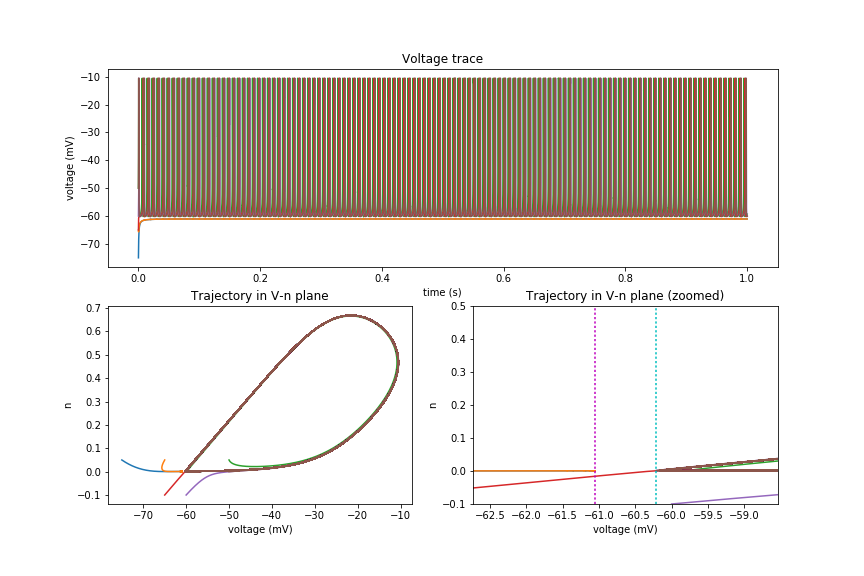
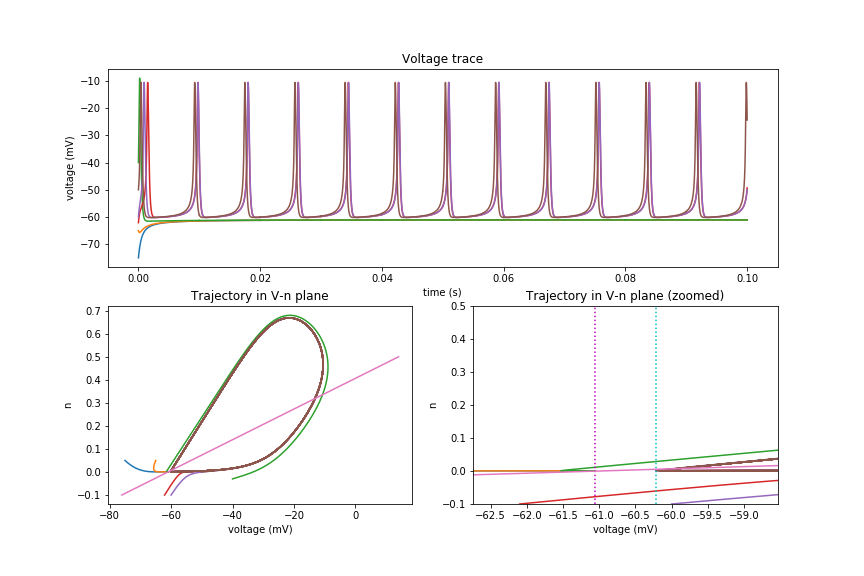
Trying to find sep. Still not working

diff --git a/Neuron.py b/Neuron.py
@@ -140,6 +140,9 @@ def plot_traces(t,V,n,node, saddle, sep_slope, cycle_boundary):
     plt.xlabel('voltage (mV)')
     plt.ylabel('n')
     plt.plot(V.T,n.T)
+    y = np.linspace(-.1,.5,50)
+    x = sep_slope[0]/sep_slope[1]*(y-saddle[1])+saddle[0]
+    plt.plot(x,y)
     plt.subplot2grid((2,2),(1,1))
     plt.title('Trajectory in V-n plane (zoomed)')
     plt.xlabel('voltage (mV)')
@@ -275,17 +278,19 @@ def find_saddle(tau_n, Iapp):
     
 def find_sep_approx(tau_n, Iapp):
     saddle = find_saddle(tau_n, Iapp)
-    a= (-g_Na*(1/np.square(1+exp((-20-saddle[0])/15.))*(1/15.*exp((-20-saddle[0])/15.))*(saddle[0]-E_Na/mV)+1/(1+exp((-20-saddle[0])/15.)))- g_K*saddle[1]-g_L)/Cm*ms
-                   
-    b= -g_K*(saddle[0]-E_K/mV)/Cm*ms
-    c= 1/np.square(1+exp((-25-saddle[0])/5.))*(1/5.*exp((-25-saddle[0])/5.))/tau_n*ms
-    d= -1/tau_n*ms
+    a= 1/Cm*(-g_Na*(1000/15*exp((-20-saddle[0])/15)*(1+exp((-20-saddle[0])/15))**(-2)*(saddle[0]/1000-E_Na/volt)+(1+exp((-20-saddle[0])/15))**(-1))- g_K*saddle[1]-g_L)*second
+    b= -1/Cm*g_K*(saddle[0]/1000-E_K/volt)*second
+    c= 1/tau_n*1000/5*exp((-25-saddle[0])/5)*(1+exp((-25-saddle[0])/5))**(-2)*second
+    d= -1/tau_n*second
    
-    J = np.array([[a,b],[c,d]])      
+    J = np.array([[a,b],[c,d]])    
+    print(J)
     eigval, eigvec = np.linalg.eig(J)
     print(eigval, eigvec)
     sep_slope = eigvec[np.argmin(eigval)]
+    sep_slope[0]*=1000
     print(sep_slope)
+  
     return saddle, sep_slope
     
     
@@ -302,8 +307,8 @@ E_K = -90 * mV
 
 tau = 1.0*ms
 
-tau_n = .155*ms
-Iapp = 3* uA #/cm**2
+tau_n = .165*ms
+Iapp = 4.51* uA #/cm**2
 I_noise = 3*uA
 duration = 200*ms
 
@@ -322,7 +327,7 @@ m_inf = 1./(1+exp((-20-v/mV)/15.)) : 1
 '''
 
 #plot_everything(tau_n=tau_n, Iapp=Iapp, duration=duration, I_noise=I_noise, weight=weight, number =1, v0=-30*mV, n0=-0)
-find_points(tau_n=tau_n, Iapp=Iapp, v0=[-75,-65,-40, -62,-60,-50]*mV,n0=[.05,.05,-.1, -.1,-.1,-0])
+find_points(tau_n=tau_n, Iapp=Iapp, v0=[-75,-65,-40, -62.1,-60,-50]*mV,n0=[.05,.05,-.03, -.1,-.1,-0])
 #find_separatrix_approx(tau_n=tau_n, Iapp=Iapp)
 #plot_field(tau_n, Iapp)
 
